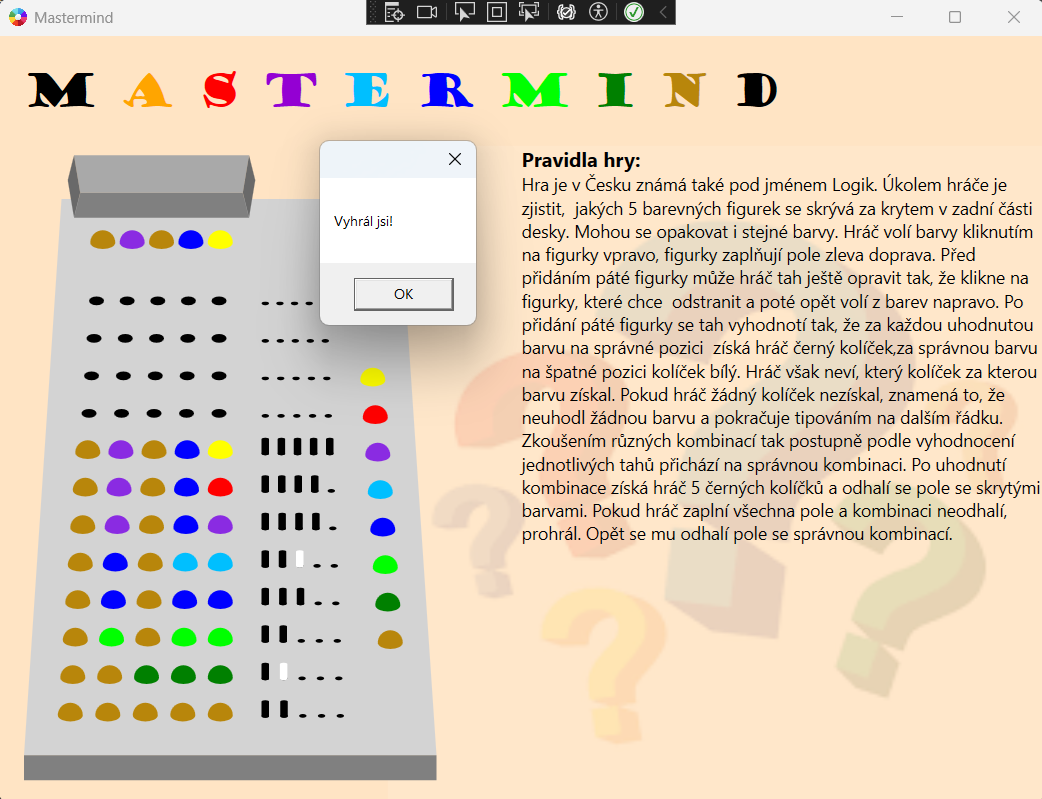
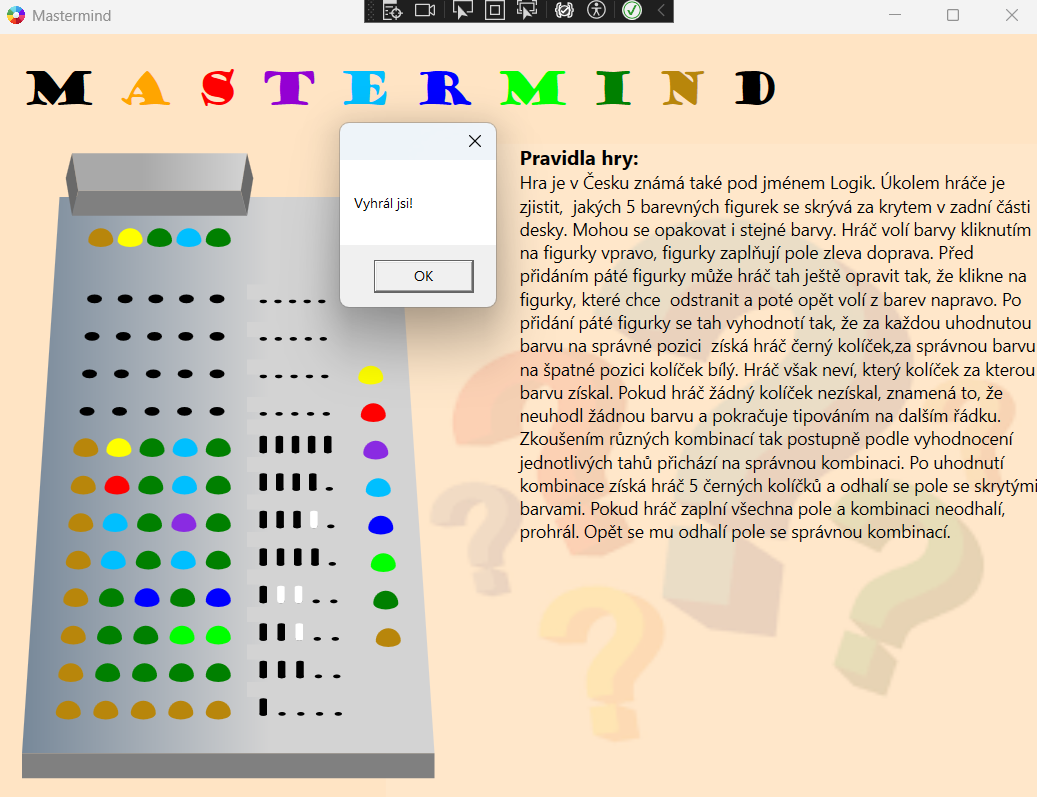
Barevny prechod hraci plochy

diff --git a/Mastermind/GameBoard.xaml b/Mastermind/GameBoard.xaml
@@ -8,9 +8,23 @@
              d:DesignHeight="500" d:DesignWidth="400">
     <Grid>
         <Canvas x:Name="board" Width="330" Height="490">
-            <Path Data="M 30 25 L 300 25 L 330 470 L 0 470 Z" Fill="LightGray" />
+            <Path Data="M 30 25 L 300 25 L 330 470 L 0 470 Z">
+                <Path.Fill>
+                    <LinearGradientBrush StartPoint="1,0.5" EndPoint="0,0.5">
+                        <GradientStop Color="LightGray" Offset="0.4"/>
+                        <GradientStop Color="LightSlateGray" Offset="1"/>
+                    </LinearGradientBrush>
+                </Path.Fill>
+            </Path>
             <Rectangle Width="330" Height="20" Fill="Gray" Canvas.Left="0" Canvas.Bottom="0"/>
-            <Path Data="M 25 -20 L 155 -20 L 160 -50 L 20 -50 Z" Fill="DarkGray" Panel.ZIndex="1" Canvas.Left="20" Canvas.Top="70" Style="{StaticResource coverStyle}"/>
+            <Path Data="M 25 -20 L 155 -20 L 160 -50 L 20 -50 Z"  Panel.ZIndex="1" Canvas.Left="20" Canvas.Top="70" Style="{StaticResource coverStyle}">
+                <Path.Fill>
+                    <LinearGradientBrush StartPoint="0,0.5" EndPoint="1,0.5">
+                        <GradientStop Color="DarkGray" Offset="0.4"/>
+                        <GradientStop Color="LightGray" Offset="1"/>
+                    </LinearGradientBrush>
+                </Path.Fill>
+            </Path>
             <Path Data="M 20 0 L 160 0 L 155 -20 L 25 -20 Z" Fill="Gray" Panel.ZIndex="1" Canvas.Left="20" Canvas.Top="70" Style="{StaticResource coverStyle}"/>
             <Path Data="M 20 0 L 25 -20 L 20 -50 L 15 -30 Z" Fill="DimGray" Panel.ZIndex="1" Canvas.Left="20" Canvas.Top="70" Style="{StaticResource coverStyle}"/>
             <Path Data="M 160 0 L 165 -30 L 160 -50 L 155 -20 Z" Fill="DimGray" Panel.ZIndex="1" Canvas.Left="20" Canvas.Top="70" Style="{StaticResource coverStyle}"/>
